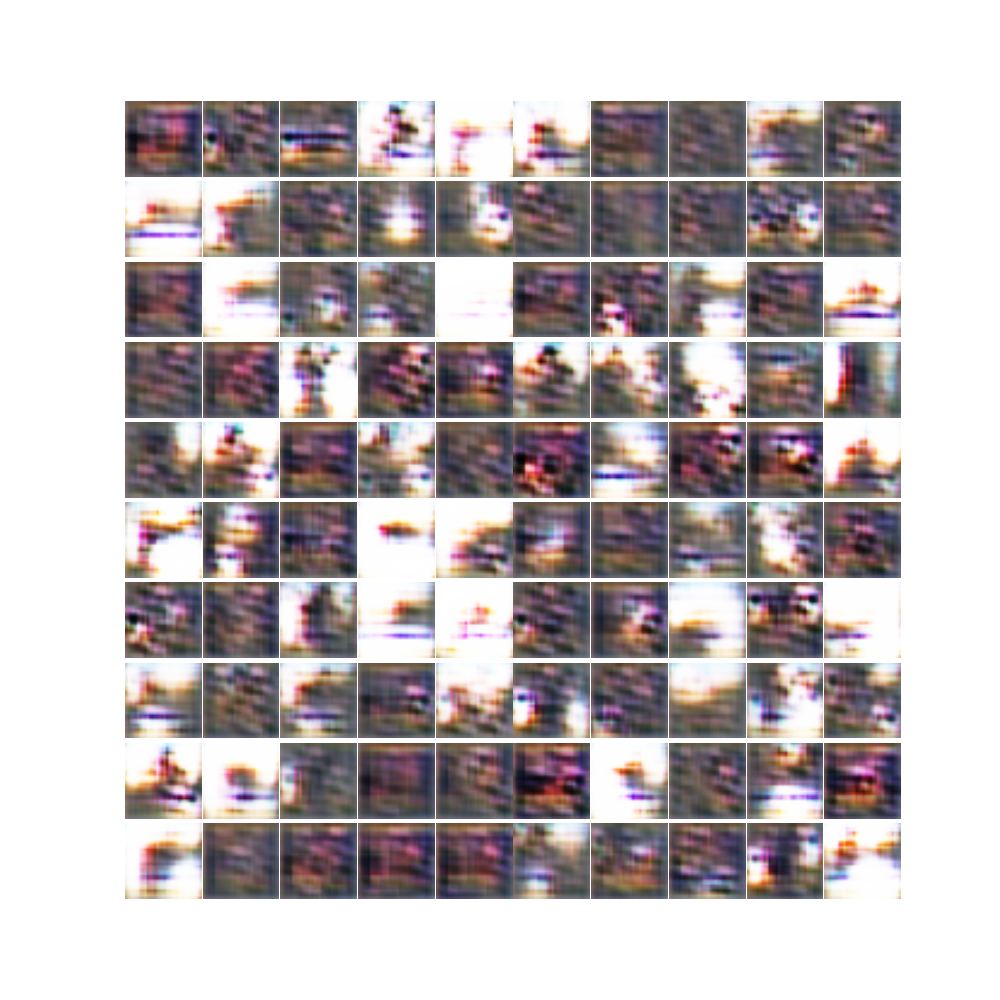
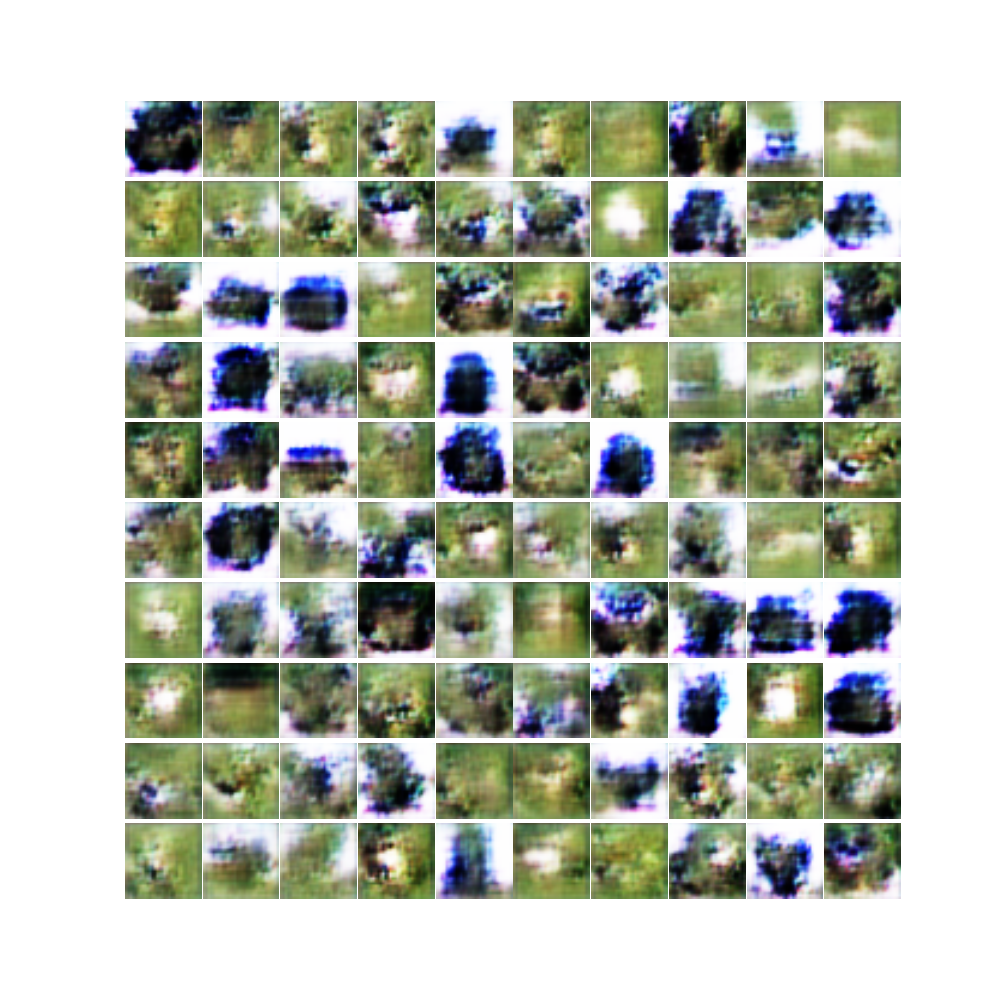
global average pooling for cifar10

diff --git a/examples/example_gan_cifar10.py b/examples/example_gan_cifar10.py
@@ -7,7 +7,7 @@ import pandas as pd
 import numpy as np
 import os
 from keras.layers import Dense, Reshape, Flatten, Dropout, LeakyReLU, Activation, BatchNormalization
-from keras.layers.convolutional import Convolution2D, UpSampling2D, MaxPooling2D
+from keras.layers.convolutional import Convolution2D, UpSampling2D, MaxPooling2D, AveragePooling2D
 from keras.models import Sequential
 from keras.optimizers import Adam
 from keras.callbacks import TensorBoard
@@ -18,26 +18,28 @@ import keras.backend as K
 from cifar10_utils import cifar10_data
 from image_utils import dim_ordering_fix, dim_ordering_unfix, dim_ordering_shape
 
+
 def model_generator():
     model = Sequential()
-    nch = 512
+    nch = 128
     reg = lambda: l1l2(l1=1e-7, l2=1e-7)
-    model.add(Dense(input_dim=100, output_dim=nch*4*4, W_regularizer=reg()))
+    h = 5
+    model.add(Dense(input_dim=100, output_dim=nch * 4 * 4, W_regularizer=reg()))
     model.add(BatchNormalization(mode=2))
     model.add(Reshape(dim_ordering_shape((nch, 4, 4))))
-    model.add(Convolution2D(nch/2, 5, 5, border_mode='same', W_regularizer=reg()))
+    model.add(Convolution2D(nch, h, h, border_mode='same', W_regularizer=reg()))
     model.add(BatchNormalization(mode=2, axis=1))
     model.add(LeakyReLU(0.2))
     model.add(UpSampling2D(size=(2, 2)))
-    model.add(Convolution2D(nch/2, 5, 5, border_mode='same', W_regularizer=reg()))
+    model.add(Convolution2D(nch / 2, h, h, border_mode='same', W_regularizer=reg()))
     model.add(BatchNormalization(mode=2, axis=1))
     model.add(LeakyReLU(0.2))
     model.add(UpSampling2D(size=(2, 2)))
-    model.add(Convolution2D(nch/4, 5, 5, border_mode='same', W_regularizer=reg()))
+    model.add(Convolution2D(nch / 2, h, h, border_mode='same', W_regularizer=reg()))
     model.add(BatchNormalization(mode=2, axis=1))
     model.add(LeakyReLU(0.2))
     model.add(UpSampling2D(size=(2, 2)))
-    model.add(Convolution2D(3, 5, 5, border_mode='same', W_regularizer=reg()))
+    model.add(Convolution2D(3, h, h, border_mode='same', W_regularizer=reg()))
     model.add(Activation('sigmoid'))
     model.summary()
     return model
@@ -46,21 +48,21 @@ def model_generator():
 def model_discriminator():
     model = Sequential()
     nch = 256
+    h = 5
     reg = lambda: l1l2(l1=1e-7, l2=1e-7)
-    model.add(Convolution2D(nch/4, 5, 5, border_mode='same', W_regularizer=reg(),
+    model.add(Convolution2D(nch / 4, h, h, border_mode='same', W_regularizer=reg(),
                             input_shape=dim_ordering_shape((3, 32, 32))))
     model.add(LeakyReLU(0.2))
     model.add(MaxPooling2D(pool_size=(2, 2)))
-    model.add(Convolution2D(nch/2, 5, 5, border_mode='same', W_regularizer=reg()))
+    model.add(Convolution2D(nch / 2, h, h, border_mode='same', W_regularizer=reg()))
     model.add(LeakyReLU(0.2))
     model.add(MaxPooling2D(pool_size=(2, 2)))
-    model.add(Convolution2D(nch, 5, 5, border_mode='same', W_regularizer=reg()))
+    model.add(Convolution2D(nch, h, h, border_mode='same', W_regularizer=reg()))
     model.add(LeakyReLU(0.2))
     model.add(MaxPooling2D(pool_size=(2, 2)))
+    model.add(Convolution2D(1, h, h, border_mode='same', W_regularizer=reg()))
+    model.add(AveragePooling2D(pool_size=(4, 4), border_mode='valid'))
     model.add(Flatten())
-    model.add(Dense(512, W_regularizer=reg()))
-    model.add(LeakyReLU(0.2))
-    model.add(Dense(1, W_regularizer=reg()))
     model.add(Activation('sigmoid'))
     model.summary()
     return model
@@ -90,7 +92,7 @@ def example_gan(adversarial_optimizer, path, opt_g, opt_d, nb_epoch, generator, 
     zsamples = np.random.normal(size=(10 * 10, latent_dim))
 
     def generator_sampler():
-        xpred = dim_ordering_unfix(generator.predict(zsamples)).transpose((0,2,3,1))
+        xpred = dim_ordering_unfix(generator.predict(zsamples)).transpose((0, 2, 3, 1))
         return xpred.reshape((10, 10) + xpred.shape[1:])
 
     generator_cb = ImageGridCallback(os.path.join(path, "epoch-{:03d}.png"), generator_sampler, cmap=None)
@@ -103,7 +105,8 @@ def example_gan(adversarial_optimizer, path, opt_g, opt_d, nb_epoch, generator, 
     if K.backend() == "tensorflow":
         callbacks.append(
             TensorBoard(log_dir=os.path.join(path, 'logs'), histogram_freq=0, write_graph=True, write_images=True))
-    history = model.fit(x=dim_ordering_fix(xtrain), y=y, validation_data=(dim_ordering_fix(xtest), ytest), callbacks=callbacks, nb_epoch=nb_epoch,
+    history = model.fit(x=dim_ordering_fix(xtrain), y=y, validation_data=(dim_ordering_fix(xtest), ytest),
+                        callbacks=callbacks, nb_epoch=nb_epoch,
                         batch_size=32)
 
     # save history to CSV
